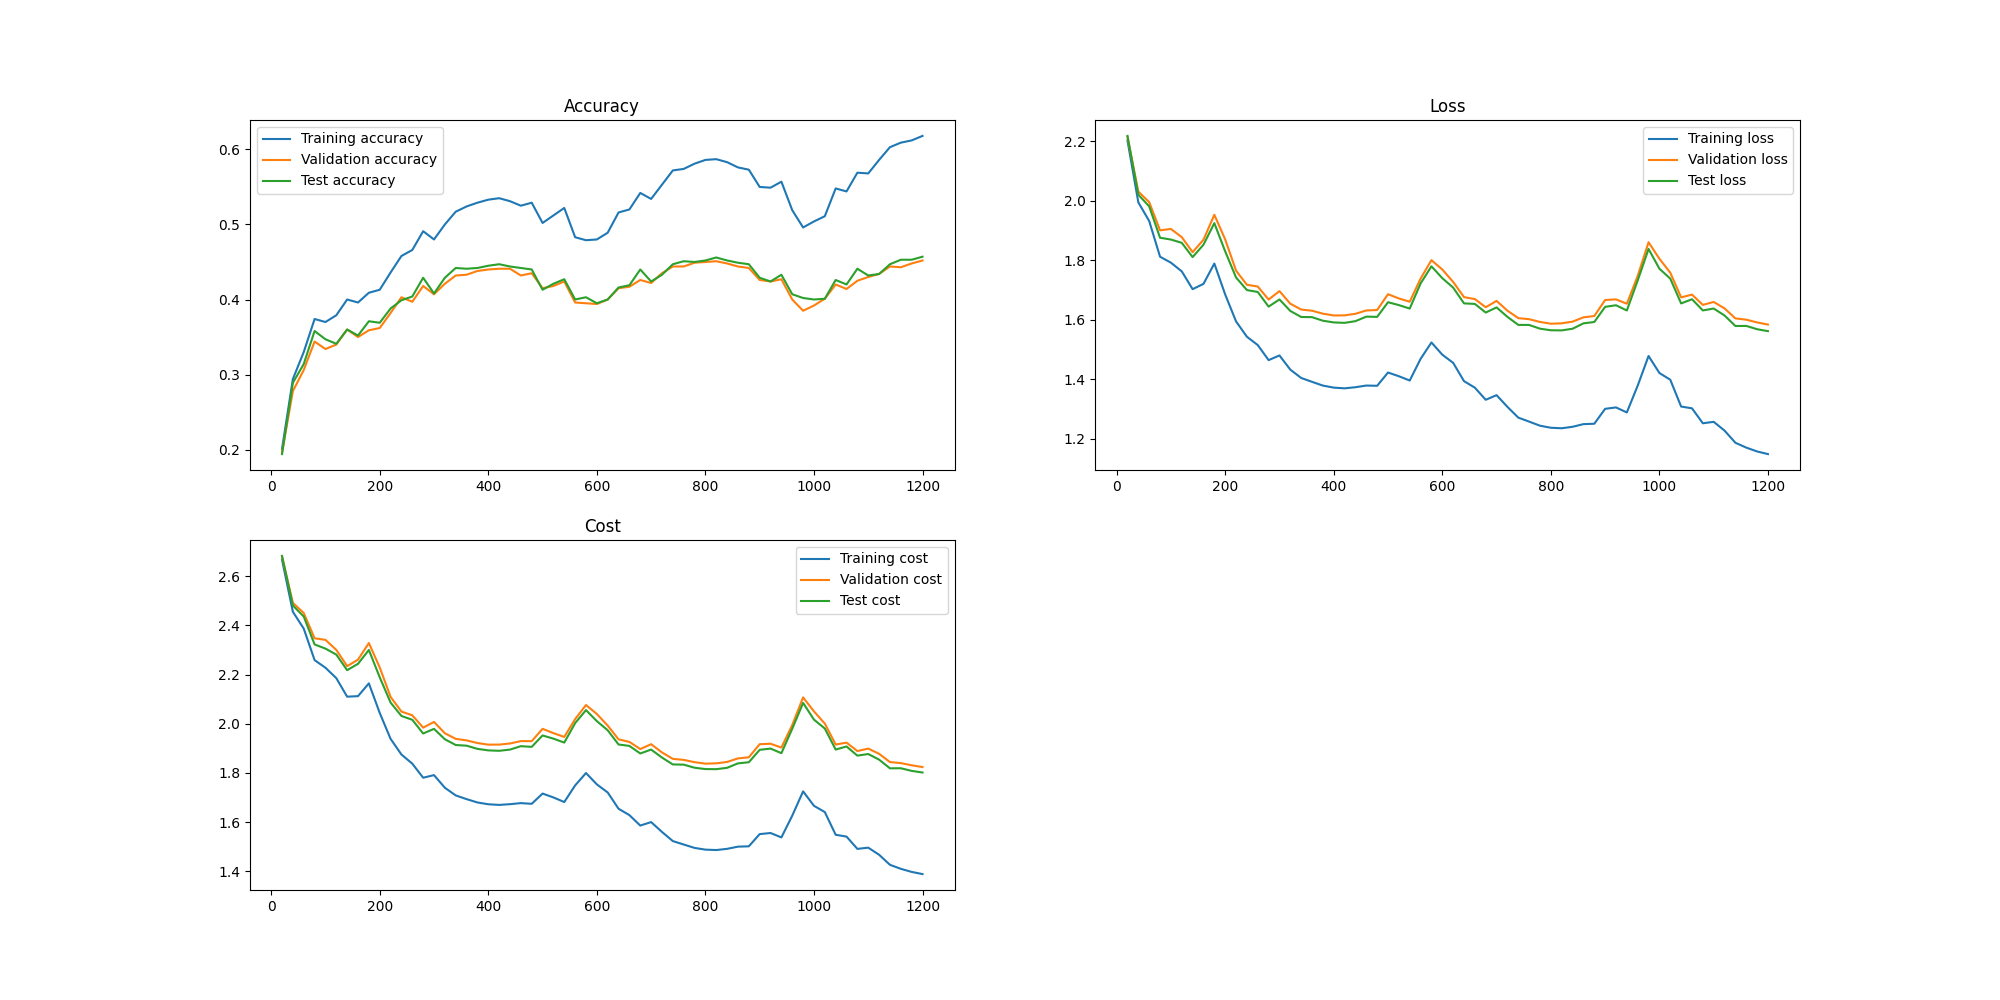
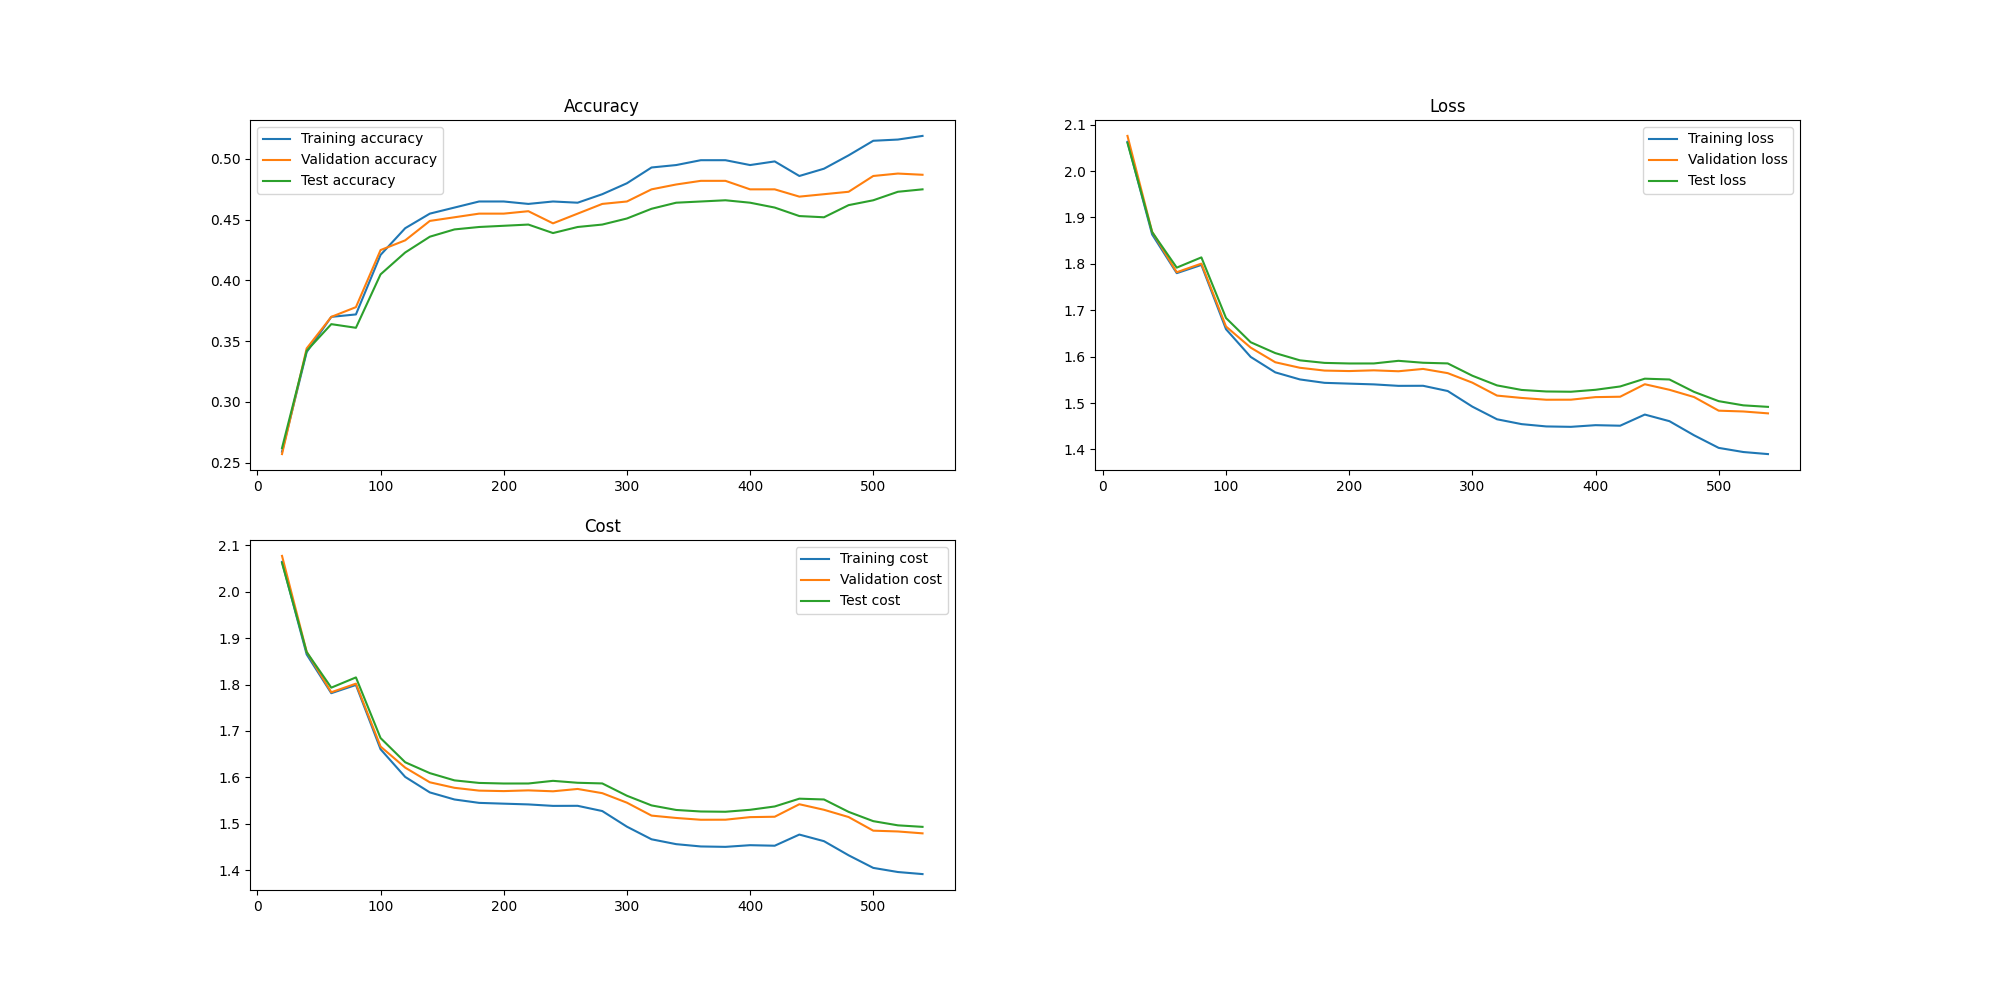
Report writing

diff --git a/Labs/Lab 2/lab2.py b/Labs/Lab 2/lab2.py
@@ -7,8 +7,9 @@
 import numpy as np
 import matplotlib.pyplot as plt
 import pickle
-import csv
 import sys
+from tqdm import tqdm
+
 
 PATH = "Datasets/cifar-10-batches-py/"
 batches= ["data_batch_1", "data_batch_2", "data_batch_3", "data_batch_4", "data_batch_5"]
@@ -214,6 +215,7 @@ def forward_pass(data, weights, bias):
     # Previuosly I had a different implementation of the forward pass but it was hard coded to 2 layers
     # Afterwards when I saw the implementation of other students I decided to implement it in a more general way
     # Therefore other parts, backpropagation was modified to work with this implementation
+    # Worried about potential plagerism, but I think it is ok since I have not copied the code from other students
     # 
     """@docstring:
     Compute the forward pass for all the layers
@@ -339,10 +341,10 @@ def batch_training(data_train, data_val, data_test, weights, bias, labels_train,
     Epochs can we either hardcode or calculate as total_updates / how many batches needed to go through the whole dataset
     Number of batches needed is equivalent to number of updates needed. Updating learning rate every iteration
     """
-    # Hyperparameters
+    # Hyperparametershh
     eta_min = 0.00001
     eta_max = 0.1
-    stepsize = 2 * data_train.shape[1]/batch_size
+    stepsize = 800
     total_updates = 2 * stepsize * cycles # Total number of updates
     epochs = int(total_updates / (data_train.shape[1]/batch_size)) # Total number of epochs
     updates_per_epoch = int(data_train.shape[1]/batch_size) # Number of updates per epoch
@@ -371,7 +373,7 @@ def batch_training(data_train, data_val, data_test, weights, bias, labels_train,
         print("Plotting will be done, this may take a while...")
     else:
         print("###Starting training...")
-    for epoch in range(epochs):
+    for epoch in tqdm(range(epochs)):
         for batch in range(int(data_train.shape[1]/batch_size)):
             start = batch * batch_size
             end = (batch + 1) * batch_size
@@ -404,7 +406,7 @@ def batch_training(data_train, data_val, data_test, weights, bias, labels_train,
                     test_accuracies_list.append(round(compute_accuracy(data_test, labels_test, weights, bias), 3))
                     test_cost_list.append(compute_cost(data_test, labels_test, weights, bias, reguliser))
                     test_loss_list.append(get_loss(data_test, labels_test, weights, bias))                
-                print("Accuracy: ", acc_train," Update steps: ", update_steps)
+                #print("Accuracy: ", acc_train," Update steps: ", update_steps)
     train_best_accuracy = max(train_accuracies_list)
 
     if do_plot:
@@ -448,10 +450,12 @@ def large_lamda_search(how_many,data_train, data_val, data_test, labels_train, l
         lamda_list.append(lamda)
 
     lamda_list.sort()
-    for reguliser in lamda_list:
+    for reguliser in tqdm(lamda_list):
         print("Lamda: ", reguliser)
-        train_best_accuracy = batch_training(data_train, data_val, data_test, weights, bias, labels_train, labels_val, labels_test, learning_rate=0, reguliser=reguliser, batch_size=1000, cycles=1, do_plot=False, filename="" )
+        train_best_accuracy = batch_training(data_train, data_val, data_test, weights, bias, labels_train, labels_val, labels_test, learning_rate=0, reguliser=reguliser, batch_size=1000, cycles=2, do_plot=False, filename="" )
         accuracy_list.append(train_best_accuracy)
+        weights, bias = init_weights_bias(data_train, labels_train, hidden_nodes=50)
+
     
     # Get the best lamdas and their respective accuracies and store them in a list
     for i in range(3):
@@ -471,11 +475,14 @@ def large_lamda_search(how_many,data_train, data_val, data_test, labels_train, l
 
 def narrow_lamda_search(lamda_list, data_val, data_test, labels_train, labels_val, labels_test, weights, bias):
     accuracy_list = list()
-    for reguliser in lamda_list:
-        print("Lamda: ", reguliser)
-        train_best_accuracy = batch_training(data_train, data_val, data_test, weights, bias, labels_train, labels_val, labels_test, learning_rate=0, reguliser=reguliser, batch_size=1000, cycles=3, do_plot=True, filename="lamda_"+str(reguliser))
+    for reguliser2 in lamda_list:
+        print("Lamda: ", reguliser2)
+        train_best_accuracy = batch_training(data_train, data_val, data_test, weights, bias, labels_train, labels_val, labels_test, learning_rate=0.0001, reguliser=reguliser2, batch_size=1000, cycles=3, do_plot=True, filename="lamda_"+str(reguliser2))
         accuracy_list.append(train_best_accuracy)
-    
+        # Reinitialize the weights and bias
+        weights, bias = init_weights_bias(data_train, labels_train, hidden_nodes=50)
+
+
     # Find the best lamda and its accuracy
     best_lamda = lamda_list[accuracy_list.index(max(accuracy_list))]
     best_accuracy = max(accuracy_list)
@@ -506,6 +513,17 @@ if __name__ == '__main__':
         print("Wrong input, please try again")
         sys.exit()
     
+    if lamda_search == "n":
+        print("Do you want to use the entire dataset? (y/n)")
+        use_entire_dataset = input()
+        if use_entire_dataset == "y":
+            data_train, labels_train, data_val, labels_val, data_test, labels_test, labels = getting_started_all()
+        elif use_entire_dataset == "n":
+            data_train, labels_train, data_val, labels_val, data_test, labels_test, labels = getting_started()
+        else:
+            print("Wrong input, please try again")
+            sys.exit()       
+    
     # Normalising the data
     data_train, data_val, data_test = normalise_all(data_train, data_val, data_test) 
 
@@ -517,13 +535,16 @@ if __name__ == '__main__':
 
     if lamda_search == "y":
         # Searching for the best lamda
-        three_lamdas, three_accuracy = large_lamda_search(10,data_train, data_val, data_test, labels_train, labels_val, labels_test, weights, bias)
+        three_lamdas, three_accuracy = large_lamda_search(15,data_train, data_val, data_test, labels_train, labels_val, labels_test, weights, bias)
         print("Best lamdas: ", three_lamdas)
         print("Best accuracies: ", three_accuracy)
         best_reg = narrow_lamda_search(three_lamdas, data_val, data_test, labels_train, labels_val, labels_test, weights, bias)
+        best_acc = batch_training(data_train, data_val, data_test, weights, bias, labels_train, labels_val, labels_test,
+                                  learning_rate=0.00001, reguliser=best_reg, batch_size=100, cycles=3, do_plot=True, filename="Maxed_Reg_results.png")
+
     else:
         best_lamda = 0.01
     # Training the best reguliser
     best_acc = batch_training(data_train, data_val, data_test, weights, bias, labels_train, labels_val, labels_test,
-                              learning_rate=0.00001, reguliser=0.007700753202063438, batch_size=100, cycles=3, do_plot=True, filename="Maxed_Reg_results.png")
+                              learning_rate=0.00001, reguliser=best_lamda, batch_size=100, cycles=3, do_plot=True, filename="cyclical_2.png")
 
